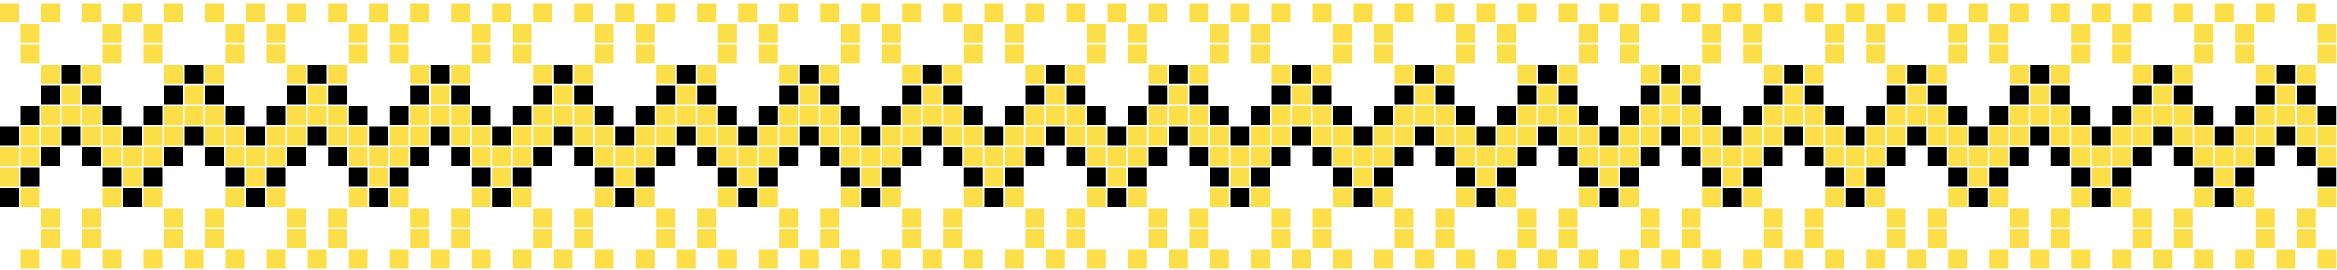
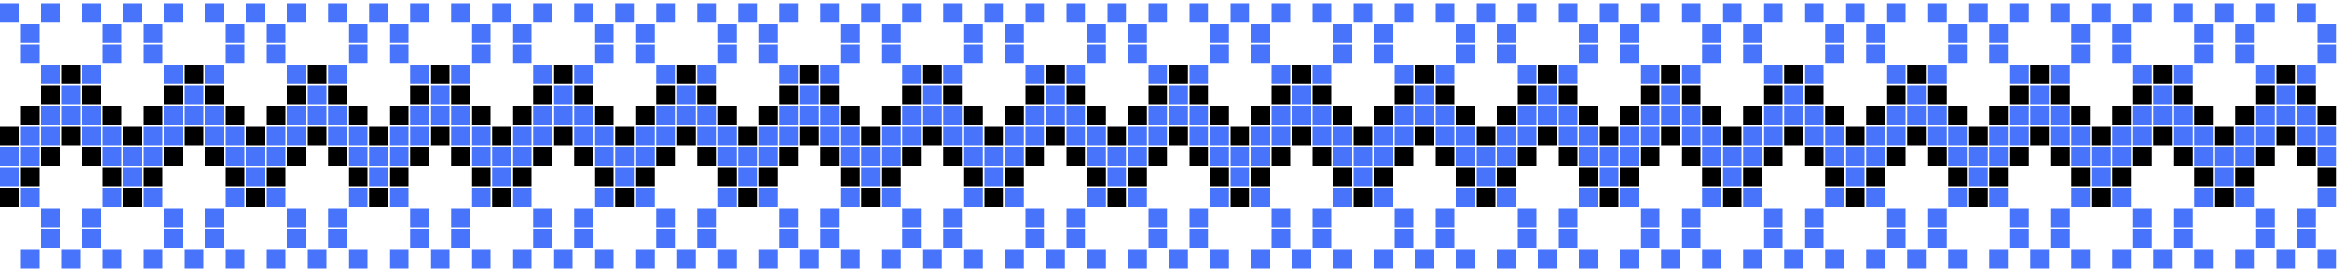
present7

diff --git a/present/css/style.css b/present/css/style.css
@@ -25,7 +25,7 @@
     min-height: 100px; } }
 
 span {
-  color: #F5D01B; }
+  color: #2636A9; }
 
 a:active {
   text-decoration: none; }
@@ -35,7 +35,7 @@ body {
   overflow-x: hidden;
   font-family: 'Rubik', sans-serif;
   font-weight: 500;
-  background-image: url(../img/bg3.jpg);
+  background-image: url(../img/bg.jpg);
   font-size: 19px; }
 
 .nav-space {
@@ -70,77 +70,79 @@ body {
 .t {
   margin-top: 5px !important; }
 
-#header .header-header {
-  display: -webkit-box;
-  display: -ms-flexbox;
-  display: flex;
-  -webkit-box-orient: vertical;
-  -webkit-box-direction: normal;
-  -ms-flex-direction: column;
-  flex-direction: column;
-  -webkit-box-pack: center;
-  -ms-flex-pack: center;
-  justify-content: center;
-  -webkit-box-align: center;
-  -ms-flex-align: center;
-  align-items: center; }
-  #header .header-header h1 {
-    padding-top: 20px;
-    padding-bottom: 20px;
-    border-top: 3px solid #FFDE3F;
-    border-bottom: 3px solid #FFDE3F;
-    font-weight: 700;
-    margin-bottom: 50px;
-    font-size: 3em;
-    color: #413F3C;
-    display: block; }
-    #header .header-header h1 span {
-      padding-left: 5px;
-      display: inline-block;
-      margin: 5px;
-      border-left: 3px solid #FFDE3F;
-      border-bottom: 3px solid #FFDE3F;
-      color: #FCC93A; }
-
-#header .header-logo {
-  height: 90vh;
-  display: -webkit-box;
-  display: -ms-flexbox;
-  display: flex;
-  -webkit-box-orient: vertical;
-  -webkit-box-direction: normal;
-  -ms-flex-direction: column;
-  flex-direction: column;
-  -webkit-box-pack: center;
-  -ms-flex-pack: center;
-  justify-content: center;
-  -webkit-box-align: center;
-  -ms-flex-align: center;
-  align-items: center; }
-  #header .header-logo img {
-    width: 100%; }
-
-#header .header-nav {
-  height: 80px;
-  background-color: #413F3C;
-  display: -webkit-box;
-  display: -ms-flexbox;
-  display: flex;
-  -webkit-box-orient: horizontal;
-  -webkit-box-direction: normal;
-  -ms-flex-direction: row;
-  flex-direction: row;
-  -ms-flex-pack: distribute;
-  justify-content: space-around; }
-  #header .header-nav span {
-    color: #FFDE3F; }
-  #header .header-nav a {
-    padding-top: 20px;
-    color: white;
-    display: block; }
-    #header .header-nav a:hover {
-      text-decoration: none;
-      color: #FFDE3F; }
+#header {
+  color: white;
+  background-image: url(../img/bg-header1.jpg);
+  background-size: cover; }
+  #header .header-header {
+    display: -webkit-box;
+    display: -ms-flexbox;
+    display: flex;
+    -webkit-box-orient: vertical;
+    -webkit-box-direction: normal;
+    -ms-flex-direction: column;
+    flex-direction: column;
+    -webkit-box-pack: center;
+    -ms-flex-pack: center;
+    justify-content: center;
+    -webkit-box-align: center;
+    -ms-flex-align: center;
+    align-items: center; }
+    #header .header-header h1 {
+      color: white;
+      padding-top: 20px;
+      padding-bottom: 20px;
+      border-top: 3px solid #384CFF;
+      border-bottom: 3px solid #384CFF;
+      font-weight: 700;
+      margin-bottom: 50px;
+      font-size: 3em;
+      display: block; }
+      #header .header-header h1 span {
+        padding-left: 5px;
+        display: inline-block;
+        margin: 5px;
+        border-left: 3px solid #384CFF;
+        border-bottom: 3px solid #384CFF;
+        color: #384CFF; }
+  #header .header-logo {
+    height: 90vh;
+    display: -webkit-box;
+    display: -ms-flexbox;
+    display: flex;
+    -webkit-box-orient: vertical;
+    -webkit-box-direction: normal;
+    -ms-flex-direction: column;
+    flex-direction: column;
+    -webkit-box-pack: center;
+    -ms-flex-pack: center;
+    justify-content: center;
+    -webkit-box-align: center;
+    -ms-flex-align: center;
+    align-items: center; }
+    #header .header-logo img {
+      width: 100%; }
+  #header .header-nav {
+    height: 80px;
+    background-color: #292929;
+    display: -webkit-box;
+    display: -ms-flexbox;
+    display: flex;
+    -webkit-box-orient: horizontal;
+    -webkit-box-direction: normal;
+    -ms-flex-direction: row;
+    flex-direction: row;
+    -ms-flex-pack: distribute;
+    justify-content: space-around; }
+    #header .header-nav span {
+      color: #384CFF; }
+    #header .header-nav a {
+      padding-top: 20px;
+      color: white;
+      display: block; }
+      #header .header-nav a:hover {
+        text-decoration: none;
+        color: #384CFF; }
 
 #year {
   margin-bottom: 10vw;
@@ -163,11 +165,11 @@ body {
         justify-content: space-around;
         text-align: center; }
         #year .year-info-fact-inner {
-          border-top: solid #FAEA98 6px;
+          border-top: solid #707AAB 6px;
           padding: 20px;
           font-size: 1.9vw; }
           #year .year-info-fact-inner:nth-child(2) {
-            border-bottom: solid #FAEA98 6px; }
+            border-bottom: solid #707AAB 6px; }
       #year .year-info .col-4 {
         display: -webkit-box;
         display: -ms-flexbox;
@@ -218,8 +220,8 @@ body {
     border-radius: 5px;
     width: 200%; }
     #away .away-info h2 {
-      border-top: 4px solid #FAEA98;
-      border-bottom: 4px solid #FAEA98;
+      border-top: 4px solid #707AAB;
+      border-bottom: 4px solid #707AAB;
       text-align: center;
       width: 100%;
       font-size: 2em;
@@ -252,8 +254,8 @@ body {
   #why .why .row {
     position: relative; }
   #why .why h2 {
-    border-top: 4px solid #FAEA98;
-    border-bottom: 4px solid #FAEA98;
+    border-top: 4px solid #707AAB;
+    border-bottom: 4px solid #707AAB;
     display: block;
     font-size: 2.5em;
     width: 100%;
@@ -366,7 +368,7 @@ body {
     #fix .fix-front {
       padding-left: 10px;
       text-align: left;
-      border-left: solid 5px #FAEA98;
+      border-left: solid 5px #707AAB;
       margin-left: 10vw;
       padding: 20px 20px 20px 13px;
       font-size: 1.2em;
@@ -393,11 +395,10 @@ body {
     padding: 10px;
     z-index: 500;
     position: absolute;
-    border-right: solid 7px #FAEA98;
+    border-right: solid 7px #707AAB;
     right: 0;
     top: 8vw;
-    width: 120%;
-    border-radius: 15px; }
+    width: 120%; }
 
 #cisac1 .cisac1-costinf {
   padding-top: 1.5vw;

diff --git a/present/css/style.sass b/present/css/style.sass
@@ -9,7 +9,7 @@ body
     overflow-x: hidden
     font-family: 'Rubik', sans-serif
     font-weight: 500
-    background-image: url(../img/bg3.jpg)
+    background-image: url(../img/bg.jpg)
     font-size: 19px
 .nav-space
     height: 40px
@@ -38,24 +38,27 @@ body
 .t
     margin-top: 5px !important
 #header
+    color: white
+    background-image: url(../img/bg-header1.jpg)
+    background-size: cover
     .header
         &-header
             h1
+                color: white
                 padding-top: 20px
                 padding-bottom: 20px
-                border-top: 3px solid $blue
-                border-bottom: 3px solid $blue
+                border-top: 3px solid $blue4
+                border-bottom: 3px solid $blue4
                 span
                     padding-left: 5px
                     display: inline-block
                     margin: 5px
-                    border-left: 3px solid $blue
-                    border-bottom: 3px solid $blue
-                    color: $mainblue
+                    border-left: 3px solid $blue4
+                    border-bottom: 3px solid $blue4
+                    color: $blue4
                 font-weight: 700
                 margin-bottom: 50px
                 font-size: 3em
-                color: $mainblack
                 display: block
             display: flex
             flex-direction: column
@@ -71,16 +74,16 @@ body
             align-items: center
         &-nav
             span
-                color: $blue
+                color: $blue4
             a
                 &:hover
                     text-decoration: none
-                    color: $blue
+                    color: $blue4
                 padding-top: 20px
                 color: white
                 display: block
             height: 80px
-            background-color: $mainblack
+            background-color: #292929
             display: flex
             flex-direction: row
             justify-content: space-around
@@ -310,7 +313,6 @@ body
             right: 0
             top: 8vw
             width: 120%
-            border-radius: 15px
     margin-top: 100px
 #cisac1
     .cisac1

diff --git a/present/index.html b/present/index.html
@@ -21,23 +21,23 @@
         <div class="container">
            <div class="row header-nav bouncelnLeft">
                <a href=""><span>Diko</span>Tech</a>
-               <a href="#year">ПОЛОЖЕНИЕ МУЗЫКАНТОВ</a>
+               <a href="#year1">ПОЛОЖЕНИЕ МУЗЫКАНТОВ</a>
                <a href="#cisac1">НАША КОНЦЕПИЯ</a>
-               <a href="">НАШЕ УСТРОЙТСТВО</a>
+               <a href="#dssd">НАШЕ УСТРОЙТСТВО</a>
            </div>
-           <div class="row nav-space"></div>
+<!--           <div class="row nav-space"></div>-->
             <div class="row">
                 <div class="col-6 header-header wow fadeInLeft">
                     <h1><span>D</span>igital <br> <span>S</span>ound <span>S</span>canner</h1>
                 </div>
                 <div class="col-6 header-logo wow jackInTheBox">
-                    <img src="img/logo.png" alt="">
+                    <img src="img/logoInv2.png" alt="">
                 </div>
             </div>
         </div>
     </section>
+    <div id="year1" class="space t"></div>
     <section id="year">
-    <div id="section" class="space"></div>
         <div class="container">
             <div class="row">
                 <div class="col-6 year-back"><img src="img/music.jpg" alt=""></div>
@@ -205,7 +205,7 @@
         </div>
     </section>
     <div class="spacer b"></div>
-    <div class="spaceg t"></div>
+    <div class="spaceg t" id="dssd"></div>
     <section id="dss">
     <div class="container">
         <div class="row">

diff --git a/present/css/_mixins.sass b/present/css/_mixins.sass
@@ -1,11 +1,12 @@
-$mainblue: #FCC93A
+$mainblue: #384BAC
 $mainblack: #413F3C
-$blue: #FFDE3F
-$blue2: #FAEA98
+$blue: #3C4CAF
+$blue2: #707AAB
 $maingrey: #f6f2f0
 $maingreen: #0AA482
 $arnament: "7"
 $red: #FA5067
 $green: #39DB30
 $green2: #00fc2a
-$blue3: #F5D01B
+$blue3: #2636A9
+$blue4: #384CFF
